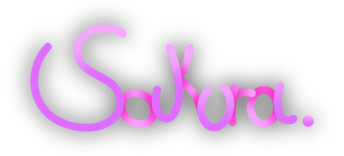
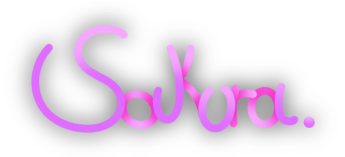
New website again
still a lot of bugs

diff --git a/index.html b/index.html
@@ -5,7 +5,7 @@
     <meta name="viewport" content="initial-scale=1, width=device-width" />
     <title>🌸 SakuraOS | Flows like petals</title>
 
-    <meta name="description" content="SakuraOS flows like petals" />
+    <meta name="description" content="SakuraOS" />
     <link rel="stylesheet" href="./global.css" />
     <link rel="stylesheet" href="./index.css" />
     <link
@@ -14,43 +14,49 @@
     />
   </head>
   <body>
-    <div class="index1" data-animate-on-scroll>
-      <div class="frame">
-        <div class="frame1">
-          <img class="img-5596-2-1" alt="" src="./public/img-5596-2-1@2x.png" />
-        </div>
-        <img
-          class="linear-arrows-action-downl"
-          alt=""
-          src="./public/linear--arrows-action--download-square.svg"
-          id="linearArrowsActionDownl"
-        />
+    <div class="index1">
+      <img
+        class="sakuraos-prop-1-icon"
+        alt=""
+        src="./public/sakuraos-prop-1@2x.png"
+      />
 
-        <img
-          class="linear-map-location-peop"
-          alt=""
-          src="./public/linear--map--location--people-nearby.svg"
-          id="linearMapLocationPeop"
-        />
-
+      <div class="sakuraos-parent">
         <div class="sakuraos">
           <span class="sakura">Sakura</span>
           <span>OS</span>
         </div>
         <i class="flows-like-petals">Flows like petals</i>
-        <img
-          class="sakuraos-prop-1-icon"
-          alt=""
-          src="./public/sakuraos-prop-1@2x.png"
-        />
-
-        <div class="download-wrapper" id="frameContainer1">
-          <b class="download">Download</b>
-        </div>
       </div>
+      <div class="download-wrapper" id="frameContainer">
+        <b class="download">Download</b>
+      </div>
+      <div class="frame">
+        <img class="img-5596-2-1" alt="" src="./public/img-5596-2-1@2x.png" />
+      </div>
+      <img
+        class="linear-arrows-action-downl"
+        alt=""
+        src="./public/linear--arrows-action--download-square.svg"
+        id="linearArrowsActionDownl"
+      />
+
+      <img
+        class="linear-map-location-peop"
+        alt=""
+        src="./public/linear--map--location--people-nearby.svg"
+        id="linearMapLocationPeop"
+      />
     </div>
 
     <script>
+      var frameContainer = document.getElementById("frameContainer");
+      if (frameContainer) {
+        frameContainer.addEventListener("click", function () {
+          window.open("https://github.com/sakuraosteam/SakuraOS-Releases/releases");
+        });
+      }
+      
       var linearArrowsActionDownl = document.getElementById(
         "linearArrowsActionDownl"
       );
@@ -65,32 +71,6 @@
         linearMapLocationPeop.addEventListener("click", function () {
           window.open("https://dsc.gg/sakuraos");
         });
-      }
-      
-      var frameContainer1 = document.getElementById("frameContainer1");
-      if (frameContainer1) {
-        frameContainer1.addEventListener("click", function () {
-          window.open("https://github.com/sakuraosteam/SakuraOS-Releases/releases");
-        });
-      }
-      var scrollAnimElements = document.querySelectorAll("[data-animate-on-scroll]");
-      var observer = new IntersectionObserver(
-        (entries) => {
-          for (const entry of entries) {
-            if (entry.isIntersecting || entry.intersectionRatio > 0) {
-              const targetElement = entry.target;
-              targetElement.classList.add("animate");
-              observer.unobserve(targetElement);
-            }
-          }
-        },
-        {
-          threshold: 0.15,
-        }
-      );
-      
-      for (let i = 0; i < scrollAnimElements.length; i++) {
-        observer.observe(scrollAnimElements[i]);
       }
       </script>
   </body>

diff --git a/index.css b/index.css
@@ -1,79 +1,48 @@
-@keyframes scale-up {
-  0% {
-    transform: scale(0.5);
-  }
-  to {
-    transform: scale(1);
-  }
-}
-.img-5596-2-1 {
+.sakuraos-prop-1-icon {
   position: absolute;
-  top: 5px;
-  left: 874px;
-  width: 172px;
-  height: 78px;
+  top: 687px;
+  left: 669px;
+  width: 389px;
+  height: 832px;
   object-fit: cover;
 }
-.frame1 {
-  position: absolute;
-  top: 0;
-  left: 0;
-  border-radius: 50px;
-  background-color: #000;
-  box-shadow: 0 4px 19px rgba(0, 0, 0, 0.67);
-  width: 1920px;
-  height: 89px;
-  overflow: hidden;
-}
-.linear-arrows-action-downl,
-.linear-map-location-peop {
-  position: absolute;
-  top: 19px;
-  left: 1840px;
-  width: 50px;
-  height: 50px;
-  cursor: pointer;
-}
-.linear-map-location-peop {
-  left: 1751px;
-}
 .sakura {
-  background: linear-gradient(93.28deg, #f4a9ff, #f442d0);
+  background: linear-gradient(93.28deg, #d99de2, #f442d0);
   -webkit-background-clip: text;
   -webkit-text-fill-color: transparent;
 }
 .sakuraos {
   position: absolute;
-  top: 336px;
-  left: 455px;
-  font-size: 128px;
+  top: 0;
+  left: 0;
   font-weight: 800;
   display: inline-block;
   width: 1011px;
   height: 128px;
-  color: #f44dd5;
+  text-shadow: 0 4px 22px rgba(0, 0, 0, 0.25);
 }
 .flows-like-petals {
   position: absolute;
-  top: 482px;
-  left: 888px;
+  top: 138px;
+  left: 433px;
+  font-size: var(--font-size-xl);
   font-weight: 600;
+  color: var(--color-white);
 }
-.sakuraos-prop-1-icon {
+.sakuraos-parent {
   position: absolute;
-  top: 694px;
-  left: 766px;
-  width: 389px;
-  height: 832px;
-  object-fit: cover;
+  top: 322px;
+  left: 358px;
+  width: 1011px;
+  height: 162px;
 }
 .download {
   position: relative;
 }
 .download-wrapper {
   position: absolute;
-  top: 576px;
-  left: 880px;
+  top: 554px;
+  left: 783px;
   border-radius: 41px;
   background-color: #d16391;
   width: 161px;
@@ -83,32 +52,69 @@
   align-items: center;
   justify-content: center;
   cursor: pointer;
+  font-size: var(--font-size-xl);
+  color: var(--color-white);
+}
+.img-5596-2-1 {
+  position: relative;
+  width: 172px;
+  height: 78px;
+  object-fit: cover;
 }
 .frame {
   position: absolute;
-  top: 0;
-  left: 0;
-  width: 1920px;
-  height: 1526px;
+  top: 30px;
+  left: 20px;
+  border-radius: 50px;
+  background-color: #000;
+  box-shadow: 0 4px 19px rgba(0, 0, 0, 0.67);
+  width: 1693px;
+  height: 89px;
   overflow: hidden;
+  display: flex;
+  flex-direction: column;
+  align-items: center;
+  justify-content: center;
+}
+.linear-arrows-action-downl,
+.linear-map-location-peop {
+  position: absolute;
+  top: 49px;
+  left: 1643px;
+  width: 44px;
+  height: 50px;
+  cursor: pointer;
+}
+.linear-map-location-peop {
+  left: 1564px;
 }
 .index1 {
   position: relative;
   width: 100%;
-  height: 1080px;
+  height: 1117px;
   overflow: hidden;
   background-image: url(./public/index@3x.png);
   background-size: cover;
   background-repeat: no-repeat;
   background-position: top;
-  opacity: 1;
   text-align: center;
-  font-size: var(--font-size-xl);
-  color: var(--color-white);
+  font-size: 128px;
+  color: #f44dd5;
   font-family: var(--font-urbanist);
 }
-.index1.animate {
-  animation: 1s ease 0s 1 normal forwards scale-up;
+@media screen and (max-width: 1200px) {
+  .sakuraos-parent {
+    width: 1111px;
+  }
+  .frame {
+    display: flex;
+    width: 1200px;
+    height: 89px;
+    align-items: center;
+    justify-content: center;
+    padding-top: 0;
+    box-sizing: border-box;
+  }
 }
 @media screen and (max-width: 960px) {
   .flows-like-petals,
